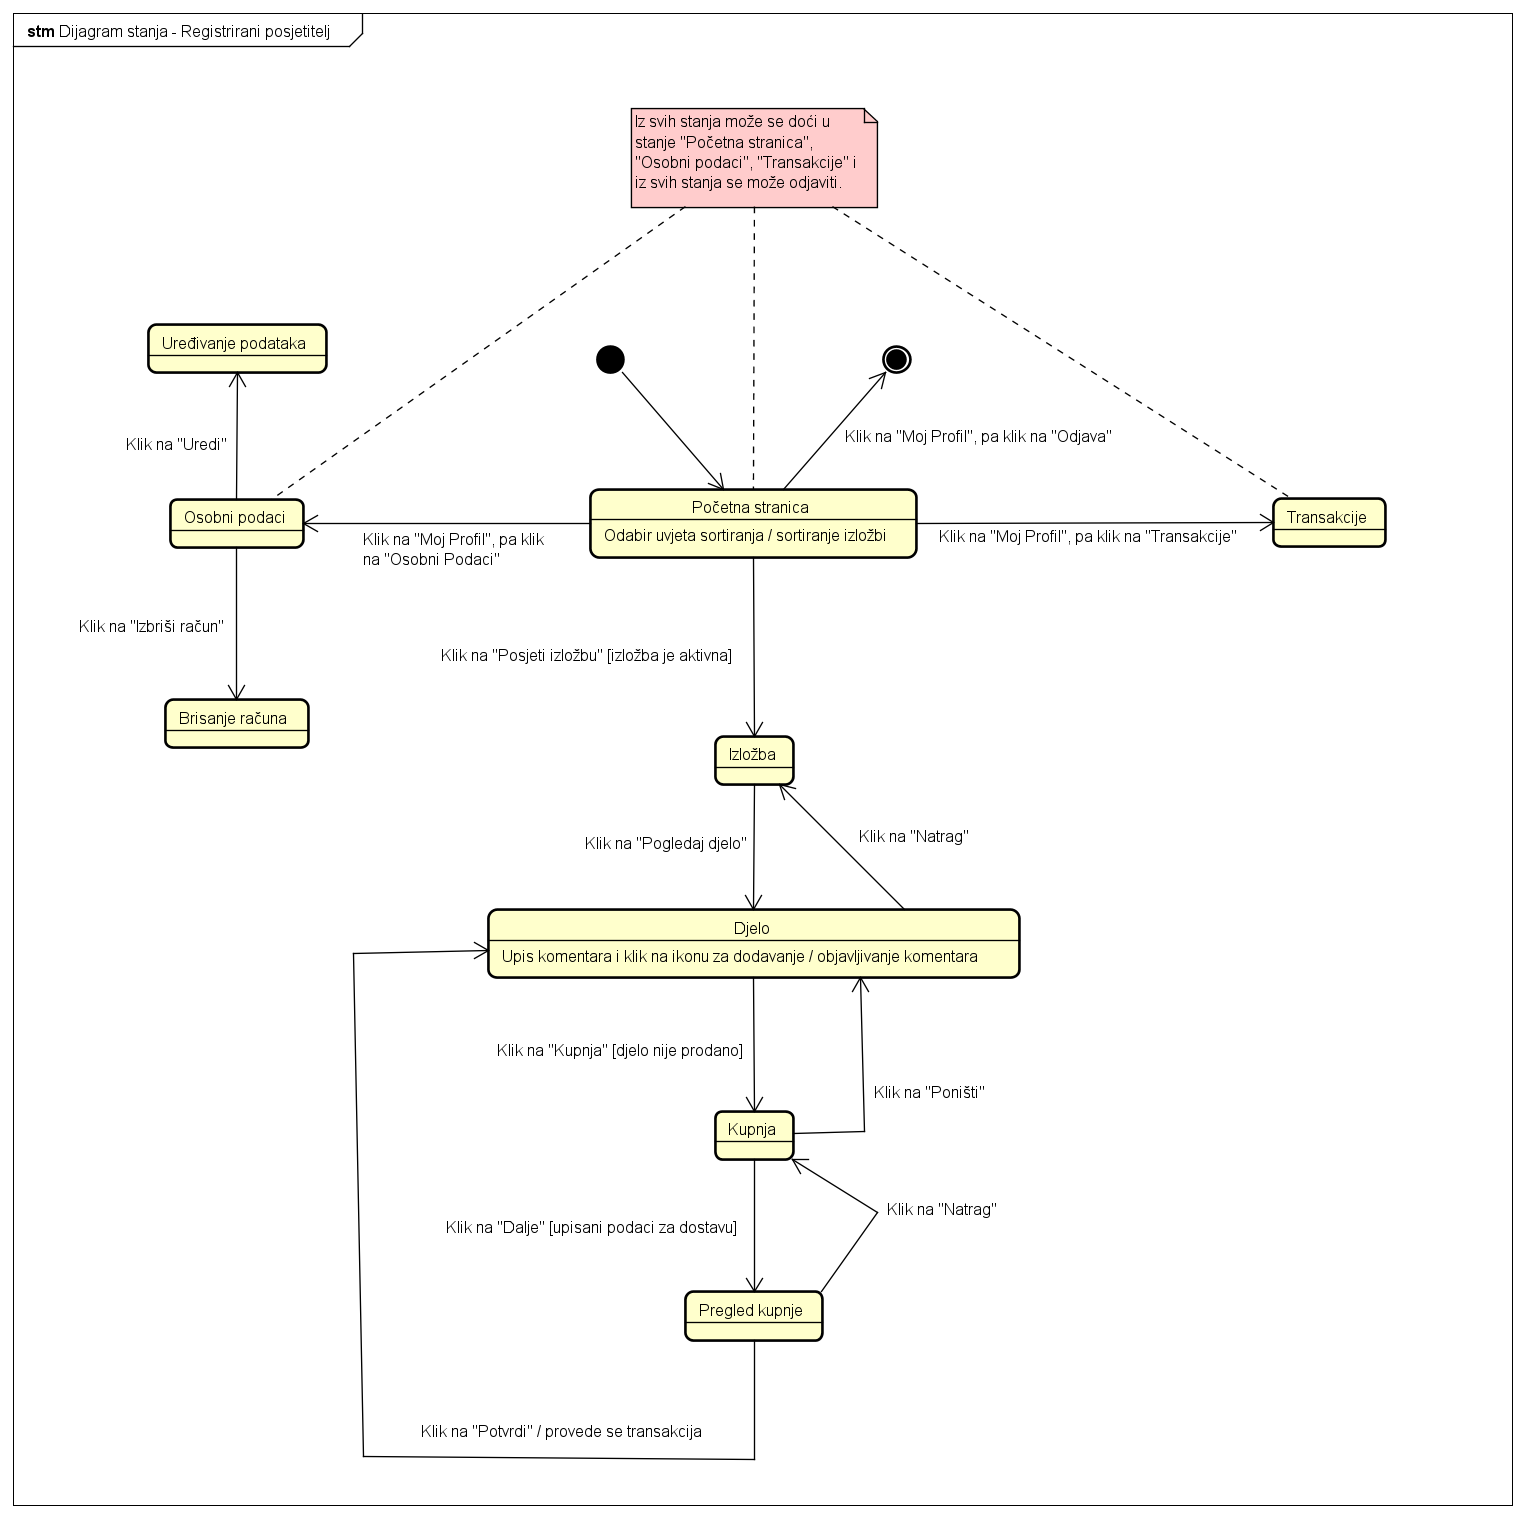
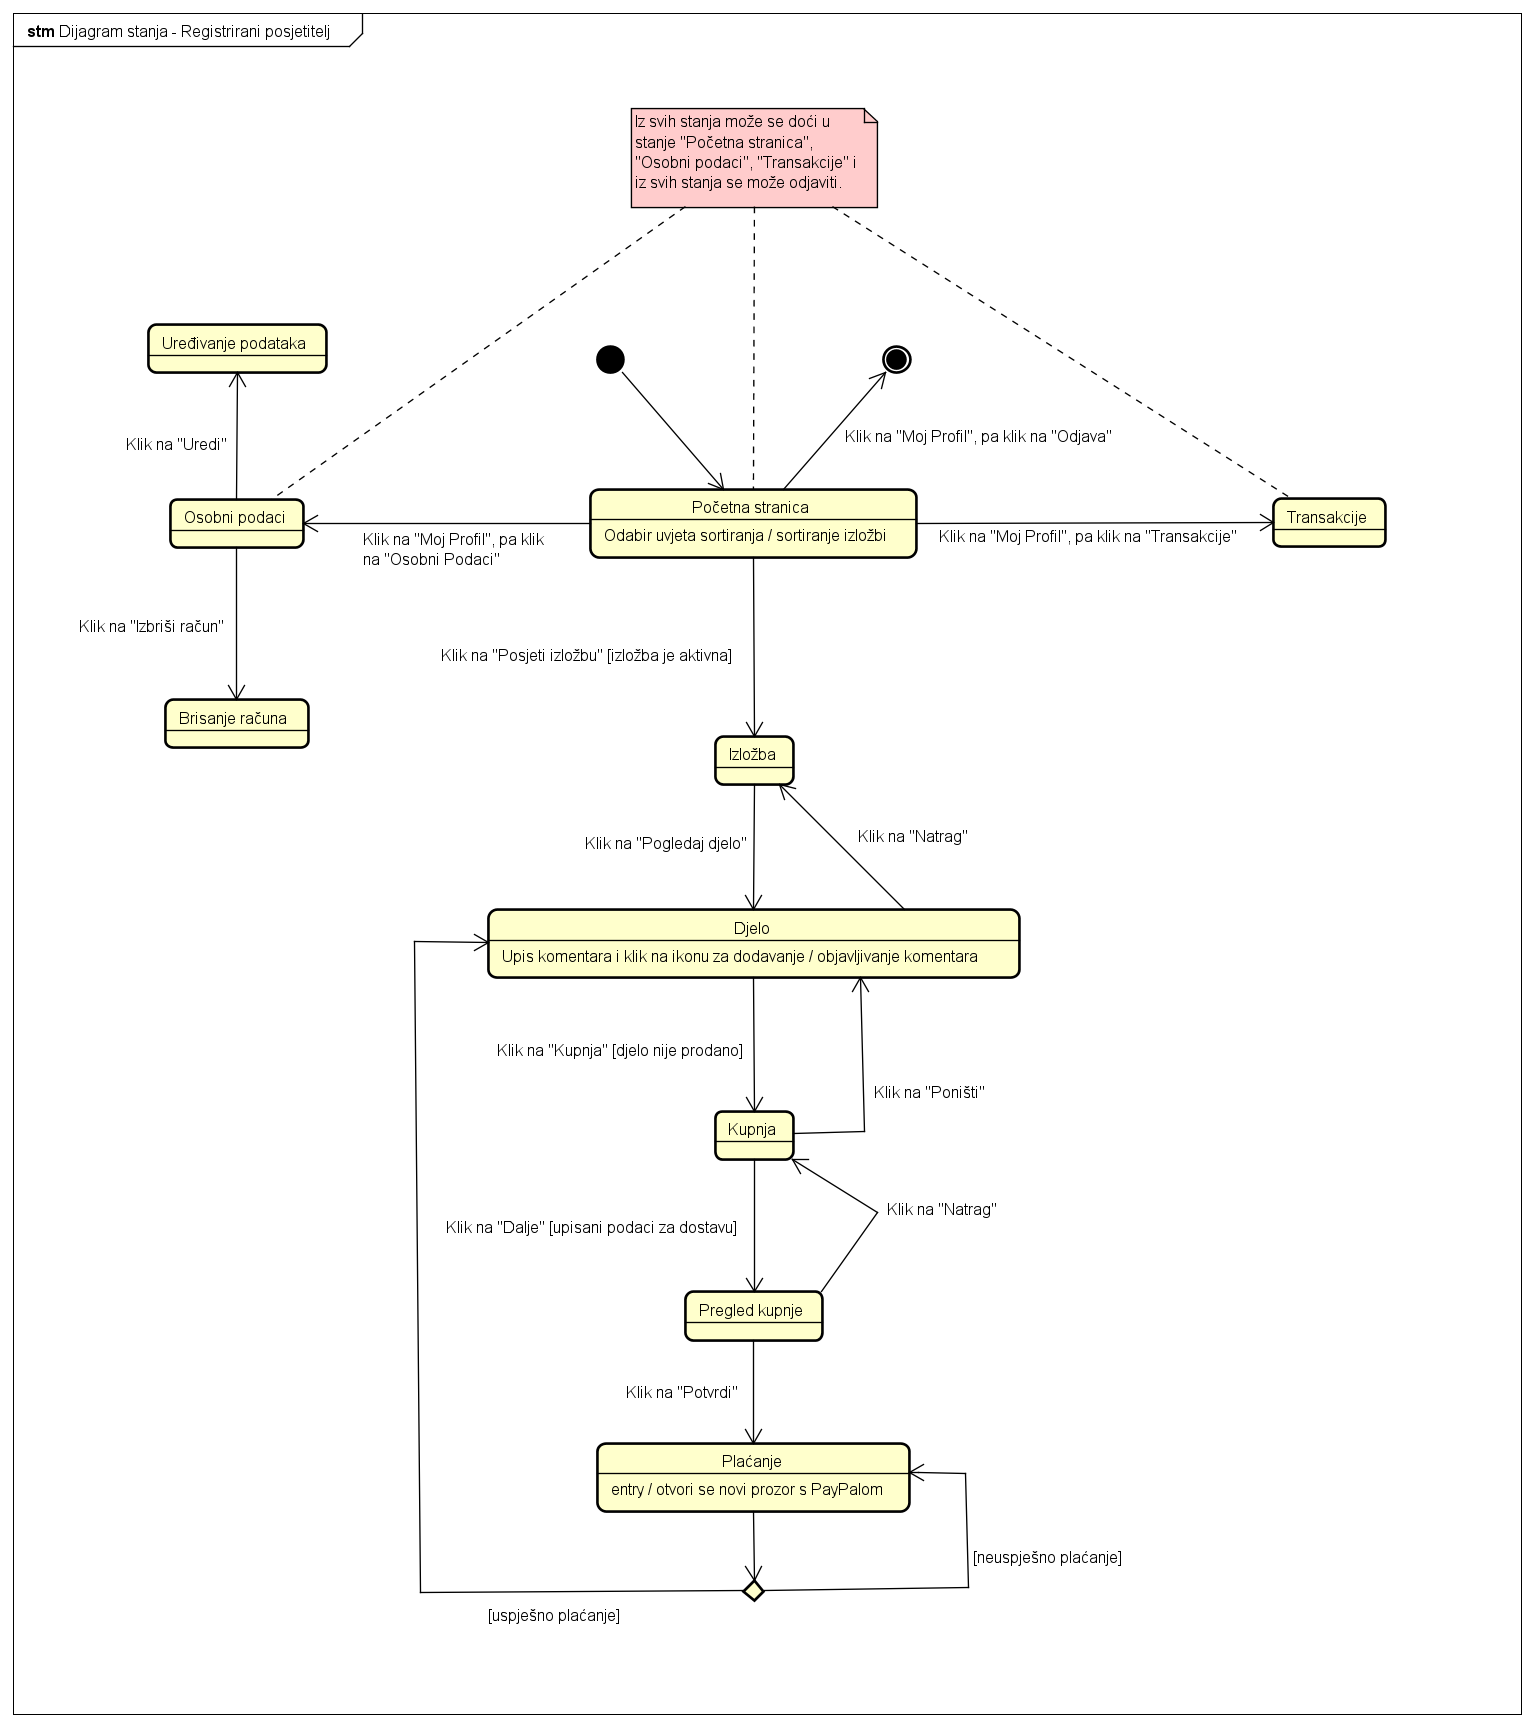
Revert "Dodan selenium screenshot"
This reverts commit 6cdd125faf593fa3f81cb27d7fe1c2d387fba6d3

diff --git a/dokumentacija/Dodatak.tex b/dokumentacija/Dodatak.tex
@@ -170,16 +170,6 @@
 				\end{packed_item}
 			\end{packed_item}
 			
-			\item  sastanak
-			\item[] \begin{packed_item}
-				\item Datum: 14. siječnja 2020.
-				\item Prisustvovali: Blagaić, Ilić, Kurtović, Mahović, Novinc, Šestak, Zubčić
-				\item Teme sastanka:
-				\begin{packed_item}
-					\item završni sastanak; revizija dokumentacije i funkcionalnosti aplikacije
-				\end{packed_item}
-			\end{packed_item}
-			
 			
 			%
 			
@@ -207,33 +197,33 @@
 				 
 				\endlastfoot
 				
-				Upravljanje projektom 		&4  &  &  &  &1  &  &1 \\ \hline
-				Opis projektnog zadatka 	&  &  &  &  &  &4  &1 \\ \hline
+				Upravljanje projektom 		&  &  &  &  &  &  &1 \\ \hline
+				Opis projektnog zadatka 	&  &  &  &  &  &  &1 \\ \hline
 				
-				Funkcionalni zahtjevi       &  &  &  &  &2  &  &  \\ \hline
-				Opis pojedinih obrazaca 	&1  &2  &1  &2  &  &2  &1  \\ \hline
+				Funkcionalni zahtjevi       &  &  &  &  &  &  &  \\ \hline
+				Opis pojedinih obrazaca 	&  &  &1  &  &  &  &1  \\ \hline
 				Dijagram obrazaca 			&  &  &3:30  &  &  &  &  \\ \hline
 				Sekvencijski dijagrami 		&  &  &4  &  &  &  &  \\ \hline
 				Opis ostalih zahtjeva 		&  &  &1  &  &  &  &  \\ \hline
 
-				Arhitektura i dizajn sustava	 &3  &2  &2  &2  &2  &3  &2  \\ \hline
-				Baza podataka					 &7  &  &  &  &1  &4  &2   \\ \hline
-				Dijagram razreda 				 &  &  &  &  &3  &  &3   \\ \hline
-				Dijagram stanja					 &2  &  &  &  &  &  &  \\ \hline
+				Arhitektura i dizajn sustava	 &  &  &  &  &  &  &0:30  \\ \hline
+				Baza podataka					 &  &  &  &  &  &  &2   \\ \hline
+				Dijagram razreda 				 &  &  &  &  &  &  &3   \\ \hline
+				Dijagram stanja					 &  &  &  &  &  &  &  \\ \hline
 				Dijagram aktivnosti 			 &  &  &2  &  &  &  &  \\ \hline
-				Dijagram komponenti				 &  &  &  &  &  &5  &  \\ \hline
-				Korištene tehnologije i alati 		&1  &  &  &  &  &  &  \\ \hline
-				Ispitivanje programskog rješenja 	&1  &  &  &  &  &1  &3  \\ \hline
+				Dijagram komponenti				 &  &  &  &  &  &  &  \\ \hline
+				Korištene tehnologije i alati 		&  &  &  &  &  &  &1:30  \\ \hline
+				Ispitivanje programskog rješenja 	&  &  &  &  &  &  &3  \\ \hline
 				Dijagram razmještaja				&  &  &0:30  &  &  &  &  \\ \hline
 				Upute za puštanje u pogon 			&  &  &1:30  &  &  &  &  \\ \hline 
 				Dnevnik sastajanja 			&  &  &1  &  &  &  &  \\ \hline
-				Zaključak i budući rad 		&  &  &  &  &  &2  &  \\  \hline
-				Popis literature 			&0:30  &  &  &  &  &  &  \\  \hline
+				Zaključak i budući rad 		&  &  &  &  &  &  &  \\  \hline
+				Popis literature 			&  &  &  &  &  &  &  \\  \hline
 											&  &  &  &  &  &  &  \\ \hline \hline
-				Izrada frontenda					&  &50  &  &30  &  &2  &  \\ \hline 
-				Izrada backenda 		 			&3  &  &15  &  &30  &  &10  \\ \hline 
-				Spajanje frontenda i backenda 		&  &35  &  &25  &35  &  &1:30  \\ \hline
-				Deploy na Heroku					&6  &  &  &  &  &  &  \\ \hline
+				Izrada frontenda					&  &  &  &  &  &  &  \\ \hline 
+				Izrada backenda 		 			&  &  &  &  &  &  &10  \\ \hline 
+				Spajanje frontenda i backenda 		&  &  &  &  &  &  &1:30  \\ \hline
+				Deploy na Heroku					&  &  &  &  &  &  &  \\ \hline
 				 				
 				
 			\end{longtabu}

diff --git a/dokumentacija/Dnevnik_promjena_dokumentacije.tex b/dokumentacija/Dnevnik_promjena_dokumentacije.tex
@@ -42,9 +42,6 @@
 			1.8 & Dodane upute za puštanje u pogon  & Ilić & 13.01.2021. 		\\[3pt] \hline 
 			1.9 & Ispravljanje tipfelera, dodana literatura  & Kurtović & 14.01.2021. 		\\[3pt] \hline 
 			1.9 & Ažurirani dijagrami razreda  & Zubčić & 14.01.2021. 		\\[3pt] \hline 
-			1.10 & Ispunjen dio tablice aktivnosti  & Novinc & 14.01.2021. 		\\[3pt] \hline 
-			1.11 & Dodan sastanak, ispunjena tablica aktivnosti do kraja  & Šestak & 14.01.2021. 		\\[3pt] \hline 
-			1.12 & Ažuriran dijagram stanja  & Kurtović & 14.01.2021. 		\\[3pt] \hline 
 			
 		\end{longtabu}
 	
